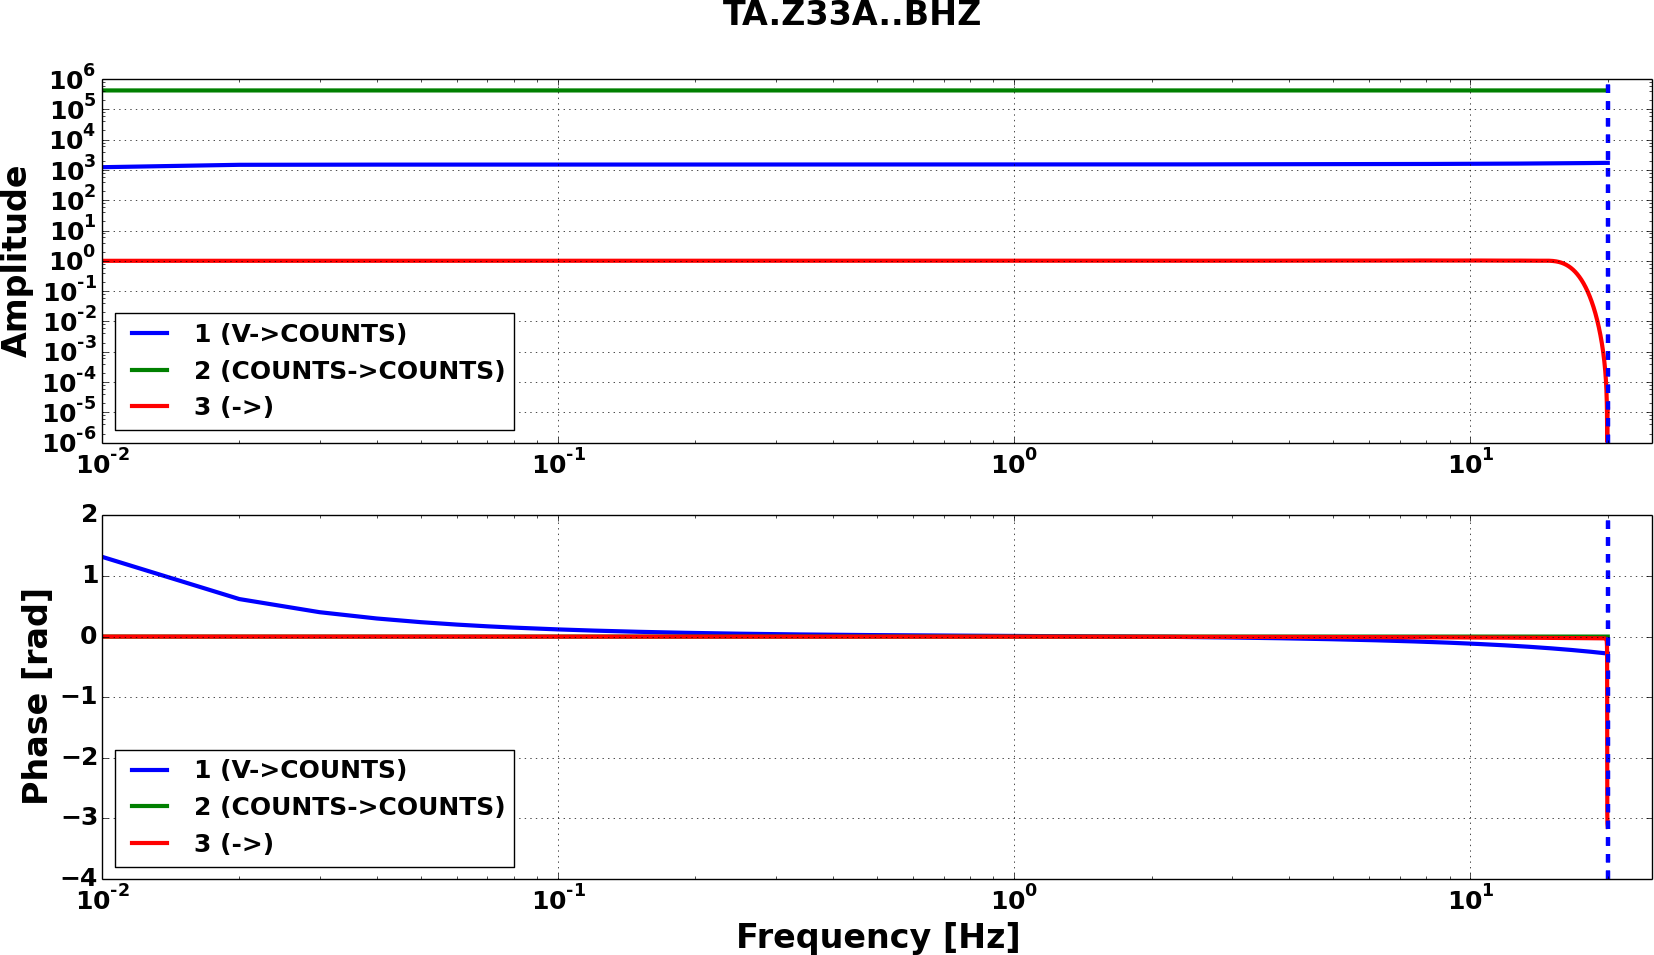
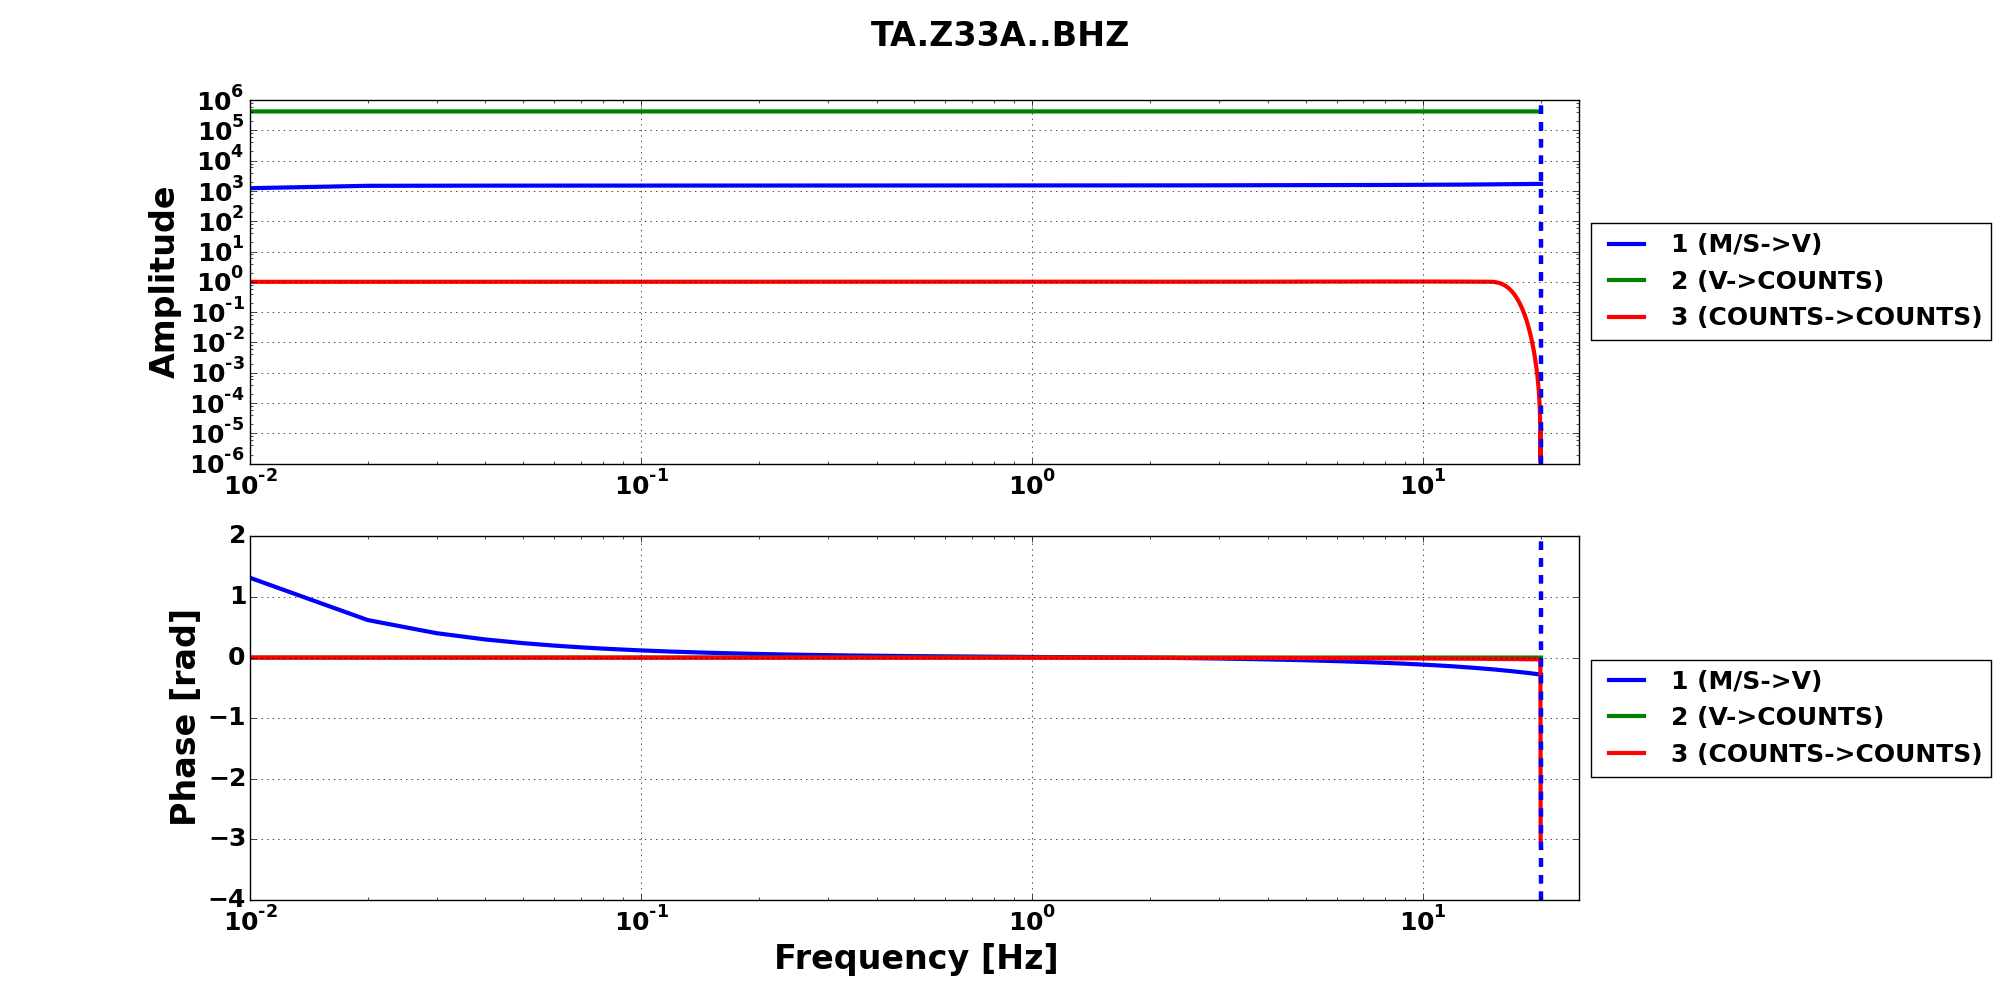
Update README

diff --git a/obspyDMT/utils/plotxml_report.py b/obspyDMT/utils/plotxml_report.py
@@ -51,39 +51,41 @@ for i in range(1, len(report_fi)):
         per_phase_diff_g.append(float(line_report_fi[1]))
         max_diff_g.append(float(line_report_fi[2]))
 
-# Plot GOOD stations
-plt.figure()
-m = Basemap(projection='robin', lon_0=0, lat_0=0)
-m.fillcontinents()
-parallels = np.arange(-90, 90, 30.)
-m.drawparallels(parallels, labels=[1, 1, 1, 1], fontsize=18)
-meridians = np.arange(-180., 180., 60.)
-m.drawmeridians(meridians, labels=[1, 1, 1, 1], fontsize=18)
-m.drawmapboundary()
+if len(sta_lat_g) > 0:
+    # Plot GOOD stations
+    plt.figure()
+    m = Basemap(projection='robin', lon_0=0, lat_0=0)
+    m.fillcontinents()
+    parallels = np.arange(-90, 90, 30.)
+    m.drawparallels(parallels, labels=[1, 1, 1, 1], fontsize=18)
+    meridians = np.arange(-180., 180., 60.)
+    m.drawmeridians(meridians, labels=[1, 1, 1, 1], fontsize=18)
+    m.drawmapboundary()
 
-x, y = m(sta_lon_g, sta_lat_g)
-m.scatter(x, y, 20, c=per_phase_diff_g, marker="o", edgecolor='none',
-          zorder=10, cmap='gray', vmin=0., vmax=1.)
-cbar = plt.colorbar(orientation='horizontal', shrink=0.9)
-cbar.ax.tick_params(labelsize=18)
-plt.savefig('compare_plots_good.png')
+    x, y = m(sta_lon_g, sta_lat_g)
+    m.scatter(x, y, 20, c=per_phase_diff_g, marker="o", edgecolor='none',
+              zorder=10, cmap='gray', vmin=0., vmax=1.)
+    cbar = plt.colorbar(orientation='horizontal', shrink=0.9)
+    cbar.ax.tick_params(labelsize=18)
+    plt.savefig('compare_plots_good.png')
 
-# Plot BAD stations
-plt.figure()
-m = Basemap(projection='robin', lon_0=0, lat_0=0)
-m.fillcontinents()
-parallels = np.arange(-90, 90, 30.)
-m.drawparallels(parallels, labels=[1, 1, 1, 1], fontsize=18)
-meridians = np.arange(-180., 180., 60.)
-m.drawmeridians(meridians, labels=[1, 1, 1, 1], fontsize=18)
-m.drawmapboundary()
+if len(sta_lat_b) > 0:
+    # Plot BAD stations
+    plt.figure()
+    m = Basemap(projection='robin', lon_0=0, lat_0=0)
+    m.fillcontinents()
+    parallels = np.arange(-90, 90, 30.)
+    m.drawparallels(parallels, labels=[1, 1, 1, 1], fontsize=18)
+    meridians = np.arange(-180., 180., 60.)
+    m.drawmeridians(meridians, labels=[1, 1, 1, 1], fontsize=18)
+    m.drawmapboundary()
 
-x, y = m(sta_lon_b, sta_lat_b)
-m.scatter(x, y, 100, c=per_phase_diff_b, marker="o", edgecolor='none',
-          zorder=10, cmap='jet',
-          vmin=min(per_phase_diff_b), vmax=max(per_phase_diff_b))
-cbar = plt.colorbar(orientation='horizontal', shrink=0.9)
-cbar.ax.tick_params(labelsize=18)
-plt.savefig('compare_plots_bad.png')
+    x, y = m(sta_lon_b, sta_lat_b)
+    m.scatter(x, y, 100, c=per_phase_diff_b, marker="o", edgecolor='none',
+              zorder=10, cmap='jet',
+              vmin=min(per_phase_diff_b), vmax=max(per_phase_diff_b))
+    cbar = plt.colorbar(orientation='horizontal', shrink=0.9)
+    cbar.ax.tick_params(labelsize=18)
+    plt.savefig('compare_plots_bad.png')
 
 plt.show()

diff --git a/README.rst b/README.rst
@@ -688,7 +688,7 @@ the default format is *png*, but assume that we want *pdf* for our figures, then
 Explore stationXML file
 -----------------------
 
-obspyDMT is able to plot the content of stationXML files by the following command: (all the figures will be saved at ./stationxml_plots by default)
+stationXML files are retrieved from the data-providers in order to apply the instrument correction to the raw counts. Albeit convenient, it is usually difficult to explore the content of stationXML files. For this reason, obspyDMT has the functionality to plot the content of stationXML files. This has been shown in some examples (all the figures will be saved at ./stationxml_plots by default)
 
 **Example 1:** plot the amplitude and phase components of a stationXML file that was retrieved in `event-based request`_:
 
@@ -702,9 +702,70 @@ obspyDMT is able to plot the content of stationXML files by the following comman
    :scale: 75%
    :align: center
 
-Moreover, it plots the stages of the stationXML file as well.
+Moreover, it is possible to plot the stages of the stationXML file as well:
+
+::
+
+    $ obspyDMT --plotxml_dir path/to/STXML.TA.Z33A..BHZ --plotxml_paz --plotxml_allstages
 
 .. image:: figures/TA.Z33A..BHZ_stages.png
+   :scale: 75%
+   :align: center
+
+**Example 2:** minimum frequency in *Example 1* was 0.01Hz by default, this value can be changes by:
+
+::
+
+    $ obspyDMT --plotxml_dir path/to/STXML.TA.Z33A..BHZ --plotxml_paz --plotxml_min_freq 0.0001
+
+.. image:: figures/TA.Z33A..BHZ_stages_0_0001.png
+   :scale: 75%
+   :align: center
+
+**Example 3:** in *Example 1* and *Example 2*, we only plot one stationXML file. It is possible to do the same for a directory of stationXML files. As an example, for GSN stations in *Example 5* of `event-based request`_:
+
+::
+
+    $ obspyDMT --plotxml_dir gsn_example/2014-01-01_2014-03-01_6.0_9.9/20140226_1/Resp --plotxml_paz
+
+All the results will be stored at *./stationxml_plots*. As an example:
+
+.. image:: figures/GT.LBTB.00.BHZ.png
+   :scale: 75%
+   :align: center
+
+Moreover, a text file will be created: *report_stationxml* that contains
+some information about the comparison between stationXML and PolesAndZeros
+with the following columns:
+
+::
+
+    channel_id   %(Phase)   Max Diff(abs)   Lat   Lon   Datetime
+
+The comparison is done as follow:
+
+1. Phase responses of full StationXML file and only PAZ are extracted from stationXML file.
+2. Based on *--plotxml_percentage (default 80)*, the phase response is cut from the lowest frequency (specified by --plotxml_min_freq) up to 80% (specified by --plotxml_percen) of its length (up to Nyquist frequency).
+3. L1 norm between these cut phase responses is calculated.
+4. The length of non-zero values are compared with the total length of the cut phase response and will be reported in *%(Phase)*
+5. Maximum difference (abs value) is reported in *%Max Diff(abs)*
+
+At this stage, we can plot the report (a simple Python script is provided at /path/to/obspyDMT/obspyDMT/utils/plotxml_report.py):
+
+::
+
+
+    $ python plotxml_report.py /path/to/report_stationxml
+
+which will create two figures. One figure are those stations that there was not difference between full stationXML and PAZ:
+
+.. image:: figures/gsn_good.png
+   :scale: 75%
+   :align: center
+
+The second figure shows those stations that the full stationXML and PAZ were different and the colorbar shows the percentage of difference *%(Phase)*:
+
+.. image:: figures/gsn_bad.png
    :scale: 75%
    :align: center
 
